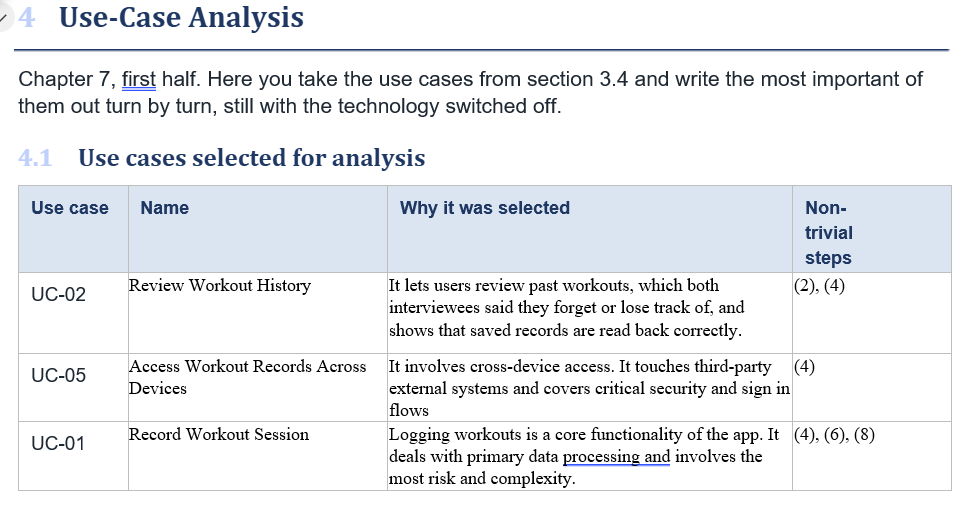
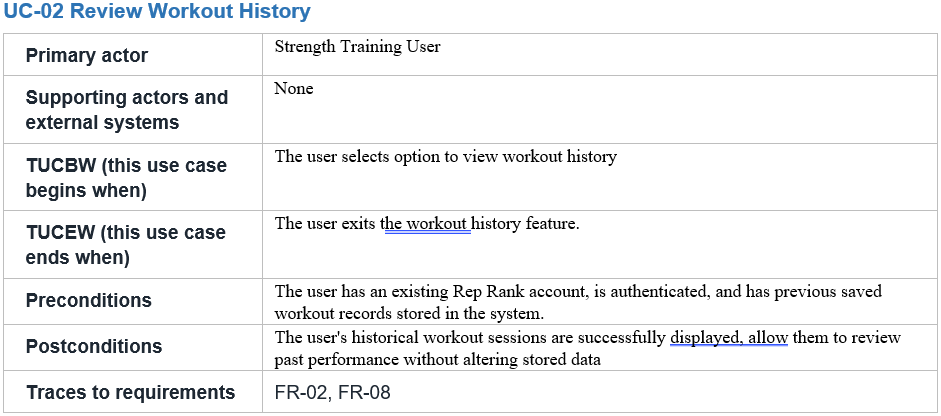
revise 4.2 and complete 4.3

diff --git a/docs/p2-anshika-contributions.md b/docs/p2-anshika-contributions.md
@@ -12,3 +12,42 @@ Author: Anshika
 2. **Replaced the "Non-trivial steps" column with step numbers from 4.2.** The template defines non-trivial steps as the steps in 4.2 that need objects inside the system.
 **Restored the P1 use-case names.**
 **Gave UC-02 a reason based on user evidence.**
+
+## Section 4.2 Expanded use cases (revised from Laxmi's drafts)
+### UC-01 Record Workout Session
+![alt text](image-1.png)
+![alt text](image-2.png)
+
+### UC-05 Access Workout Records Across Devices
+![alt text](image-3.png)
+![alt text](image-4.png)
+
+### UC-02 Review Workout History
+![alt text](image.png)
+![alt text](image-1.png)
+
+### Changes and reasons (4.2)
+
+**UC-01**
+- Added step (0) and numbered all rows as required by the rubric.
+- Split "search and select"; merged "enter" and "save": one turn per row.
+- Removed cloud saving; supporting actors set to None: background work and technology don't belong in analysis.
+- Replaced "search bar" as a screen widget is technology.
+- Filled traces (FR-01, FR-02, FR-03, FR-10)
+
+**UC-05**
+- Added step (0); removed the "opens the app" row: that row is the trigger (TUCBW).
+- Expanded step (4) with verification and retrieval: the user waits for both, and 5.2 needs them.
+- Moved "network access" from preconditions to A4: it can be false during normal use.
+- Added A3, A5, A6 and traces QR-01, CON-02
+
+**UC-02**
+- Removed "has saved records" from preconditions: it contradicted A1.
+- TUCBW reduced to one action; supporting actors set to None: the user is already signed in.
+- Removed "home screen interface" and "cached locally": technology.
+- Step (2) now shows the list: every system turn must be visible to the user.
+- Traces changed to FR-02, FR-08: matches the P1 matrix.
+
+### Changes and reasons (4.3)
+- New section: the rubric requires a self-review log of what each Lesson 13 check found and fixed.
+- Lists actor-column items for the domain model so cross-check K1 can run.
